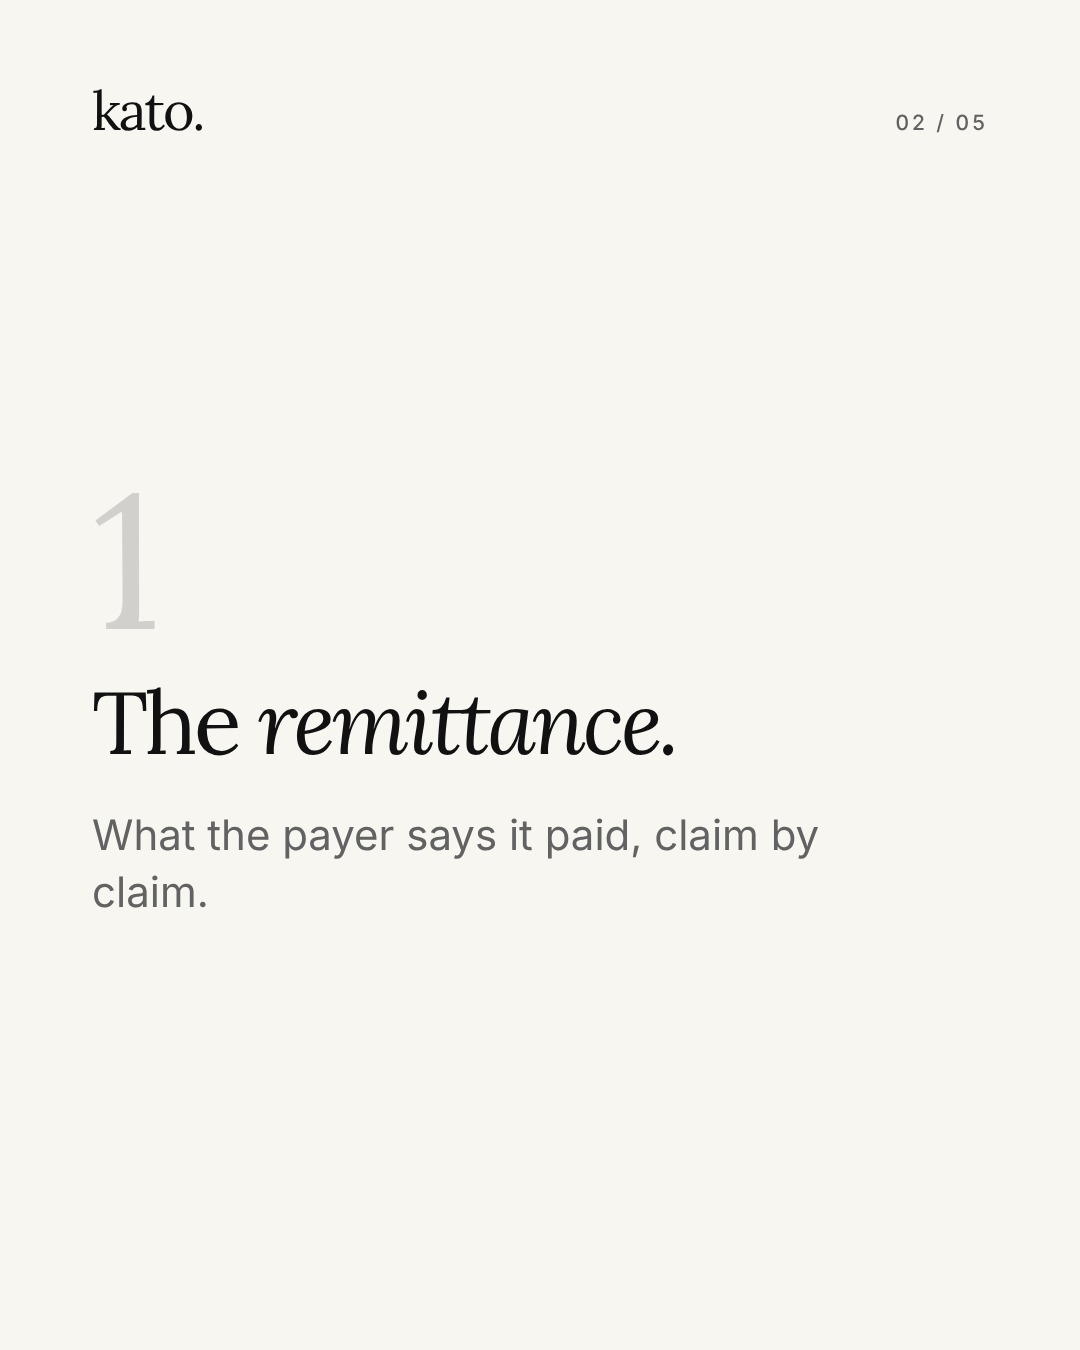
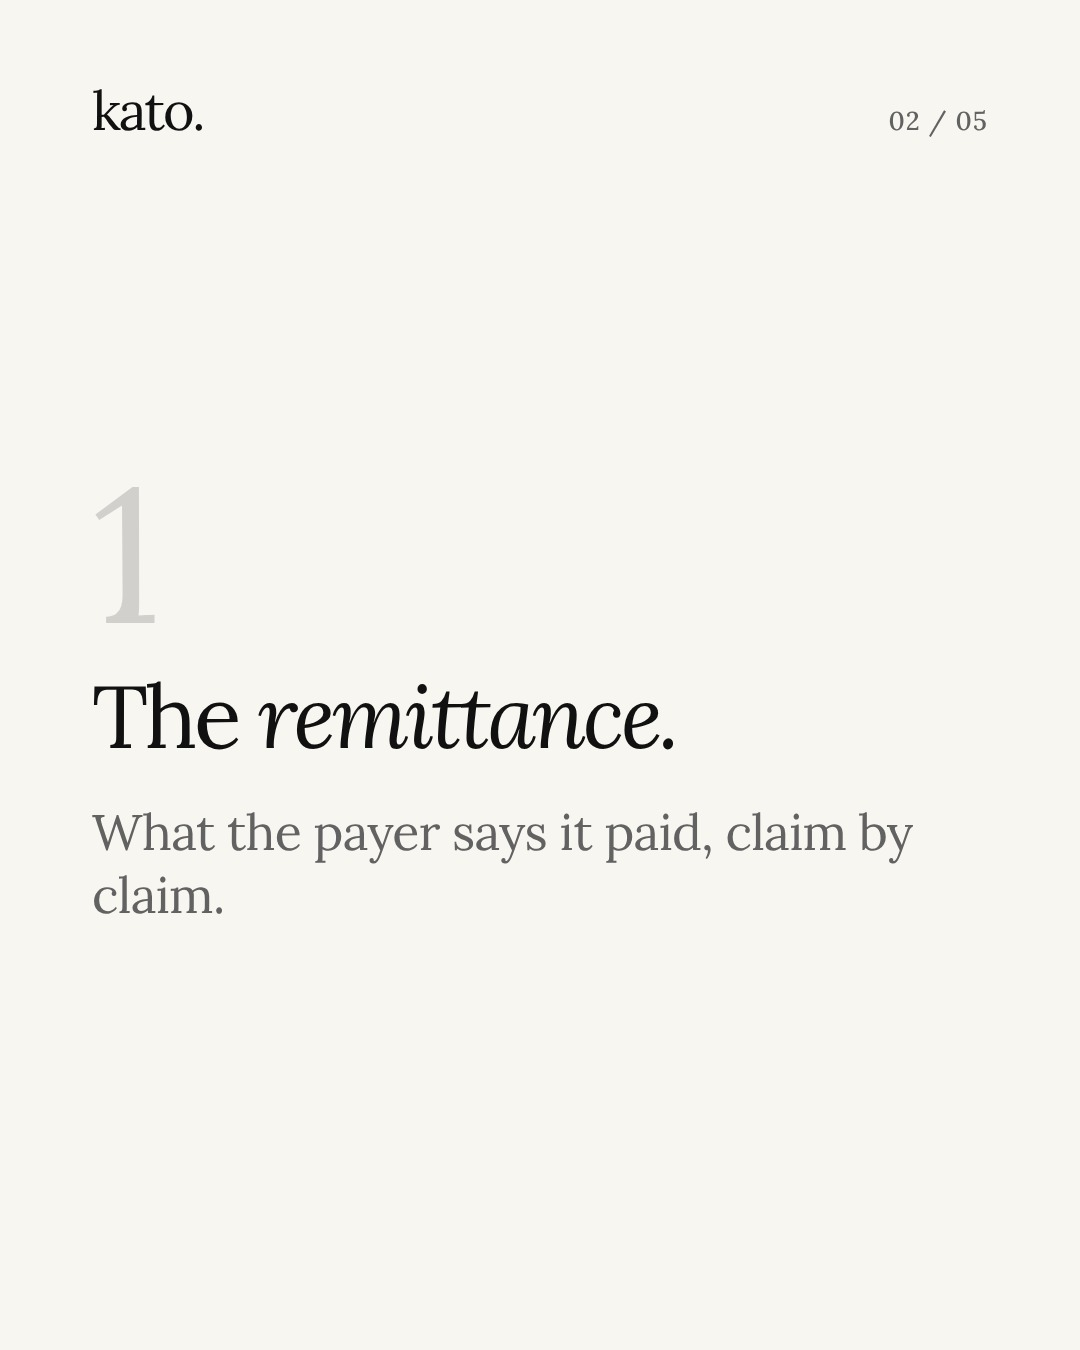
Set image text in the serif and remove the on-image sample-data label
Claude-Session: https://claude.ai/code/session_0129kdzCdQVFrc7k6xRU7ycQ

diff --git a/render.py b/render.py
@@ -19,14 +19,14 @@ radial-gradient(700px 520px at 30% 78%,#a39478 0,transparent 70%),radial-gradien
 .post>*{position:relative;z-index:2}
 .top{display:flex;justify-content:space-between;align-items:baseline}
 .mark{font-family:var(--serif);font-size:54px;letter-spacing:-.04em;line-height:1}
-.tag{font-size:21px;letter-spacing:.14em;color:var(--muted);font-weight:500}
+.tag{font-family:var(--serif);font-size:26px;letter-spacing:.04em;color:var(--muted);font-weight:500}
 .dark .tag,.dark .sub,.blur .tag{color:#b9b6ae} .blur .sub{color:#efeae0}
 .body{flex:1;display:flex;flex-direction:column;justify-content:center;gap:40px}
 .body.c{align-items:center;text-align:center}
 h1{font-family:var(--serif);font-weight:400;letter-spacing:-.04em;line-height:1;font-size:132px}
 h1.m{font-size:108px} h1.s{font-size:88px;line-height:1.04} h1.xs{font-size:64px;line-height:1.08;letter-spacing:-.03em}
 em{font-style:italic}
-.sub{font-size:42px;line-height:1.35;color:var(--muted);max-width:820px}
+.sub{font-family:var(--serif);font-size:50px;line-height:1.25;letter-spacing:-.015em;color:var(--muted);max-width:840px}
 .stag{display:flex;flex-direction:column;gap:26px;font-family:var(--serif);font-size:124px;letter-spacing:-.04em;line-height:1}
 .note{font-size:24px;color:var(--muted);margin-top:18px} .blur .note,.dark .note{color:#cfc9bc}
 .card{background:var(--paper);color:var(--ink);border-radius:28px;padding:40px 44px;border:1px solid var(--line);box-shadow:0 24px 60px -30px rgba(17,17,17,.25)}
@@ -43,7 +43,7 @@ em{font-style:italic}
 .feed i{width:30px;height:30px;border-radius:50%;border:2px solid currentColor;display:inline-block;flex:none;position:relative}
 .feed i:after{content:"";position:absolute;left:8px;top:4px;width:8px;height:14px;border:solid currentColor;border-width:0 2.5px 2.5px 0;transform:rotate(45deg)}
 .bars{display:flex;flex-direction:column;gap:22px;width:100%}
-.bars div{height:92px;border-radius:14px;background:var(--mist);display:flex;align-items:center;padding:0 32px;font-size:28px;color:var(--muted);justify-content:space-between}
+.bars div{height:92px;border-radius:14px;background:var(--mist);display:flex;align-items:center;padding:0 32px;font-family:var(--serif);font-size:32px;color:var(--muted);justify-content:space-between}
 .bars div b{font-weight:500;color:var(--ink)}
 .num{font-family:var(--serif);font-size:190px;line-height:.8;letter-spacing:-.05em;opacity:.16}
 .golf{width:100%;height:340px}
@@ -57,7 +57,7 @@ def card(c):
     rows="".join(f'<div class="row"><span class="k">{html.escape(k)}</span><span class="st"><span class="dot {"" if ok else "open"}">{"&#10003;" if ok else "!"}</span>{html.escape(v)}</span></div>' for k,v,ok in c["rows"])
     return (f'<div><div class="card"><div class="hd"><span>{html.escape(c["title"])}</span><span class="mark">kato.</span></div>'
             f'<div class="batch"><div><b>{html.escape(c["batch"])}</b><span>{html.escape(c["status"])}</span></div><div class="amt">{html.escape(c["amount"])}</div></div>{rows}</div>'
-            f'<div class="note">Illustrative demo. Synthetic data.</div></div>')
+            '</div>')
 def slide(s,i,n):
     b=""
     if s.get("golf"): b+=('<div class="golf"><svg viewBox="0 0 896 340"><ellipse cx="640" cy="282" rx="150" ry="16" fill="#e4dfd3"/>'
@@ -75,7 +75,7 @@ def slide(s,i,n):
     if s.get("sub"): b+=f'<div class="sub">{em(s["sub"])}</div>'
     if s.get("bars"): b+='<div class="bars">'+"".join(f'<div><b>{html.escape(a)}</b><span>{html.escape(c)}</span></div>' for a,c in s["bars"])+'</div>'
     if s.get("feed"):
-        b+='<div class="feed">'+"".join(f'<div style="opacity:{o}"><i></i>{html.escape(t)}</div>' for t,o in s["feed"])+'</div><div class="note">Illustrative. Synthetic data.</div>'
+        b+='<div class="feed">'+"".join(f'<div style="opacity:{o}"><i></i>{html.escape(t)}</div>' for t,o in s["feed"])+'</div>'
     if s.get("card"): b+=card(s["card"])
     tag=f"{i+1:02d} / {n:02d}" if n>1 else ""
     return (f'<!doctype html><meta charset="utf-8"><style>{CSS}</style><div class="post {s.get("theme","")}">'

diff --git a/GUARDRAILS.md b/GUARDRAILS.md
@@ -5,12 +5,12 @@ Every post and caption must pass all of these. If a draft cannot, drop it and wr
 1. No invented customers, quotes, hours saved, dollar results, percentages, or statistics. Use a number only if a founder supplied it with a source.
 2. Describe only what joinkato.com says Kato handles today: payment posting and reconciliation (remittance, bank deposit verification, PMS posting, flagging what does not match). No claims about claim submission, denials, eligibility, banking, cards, or financing.
 3. Never name a specific PMS as supported and never claim write access to one.
-4. Product visuals use synthetic data and carry the label "Illustrative demo. Synthetic data." (or "Illustrative. Synthetic data.").
+4. Product visuals use made-up sample data only (never real practice, patient, or payer data). No disclaimer label on the image (founder decision, Nov 16, 2026). When an image shows a product screen with dollar amounts, add "Example shown with sample data." to the caption.
 5. Say "payer", not "insurance company". No em dashes. Product name is Kato.
 6. No buttons, links, URLs, or "swipe"/"tap" prompts on images. Nothing on a post is tappable.
 7. Lead with time back and relief from billing. Not a dashboard, not a copilot, not outsourced billing, not an AI chatbot.
 8. Do not mention competitors. Do not reuse another brand's lines.
-9. Captions: one to three short sentences, plain and calm, at most three hashtags, no emoji.
+9. All text on images is set in the serif (headline) font, except inside product UI cards. Captions: one to three short sentences, plain and calm, at most three hashtags, no emoji.
 10. Golf is an occasional campaign theme (at most one post a week), not the identity.
 
 ## Rotation (per 7 days)
